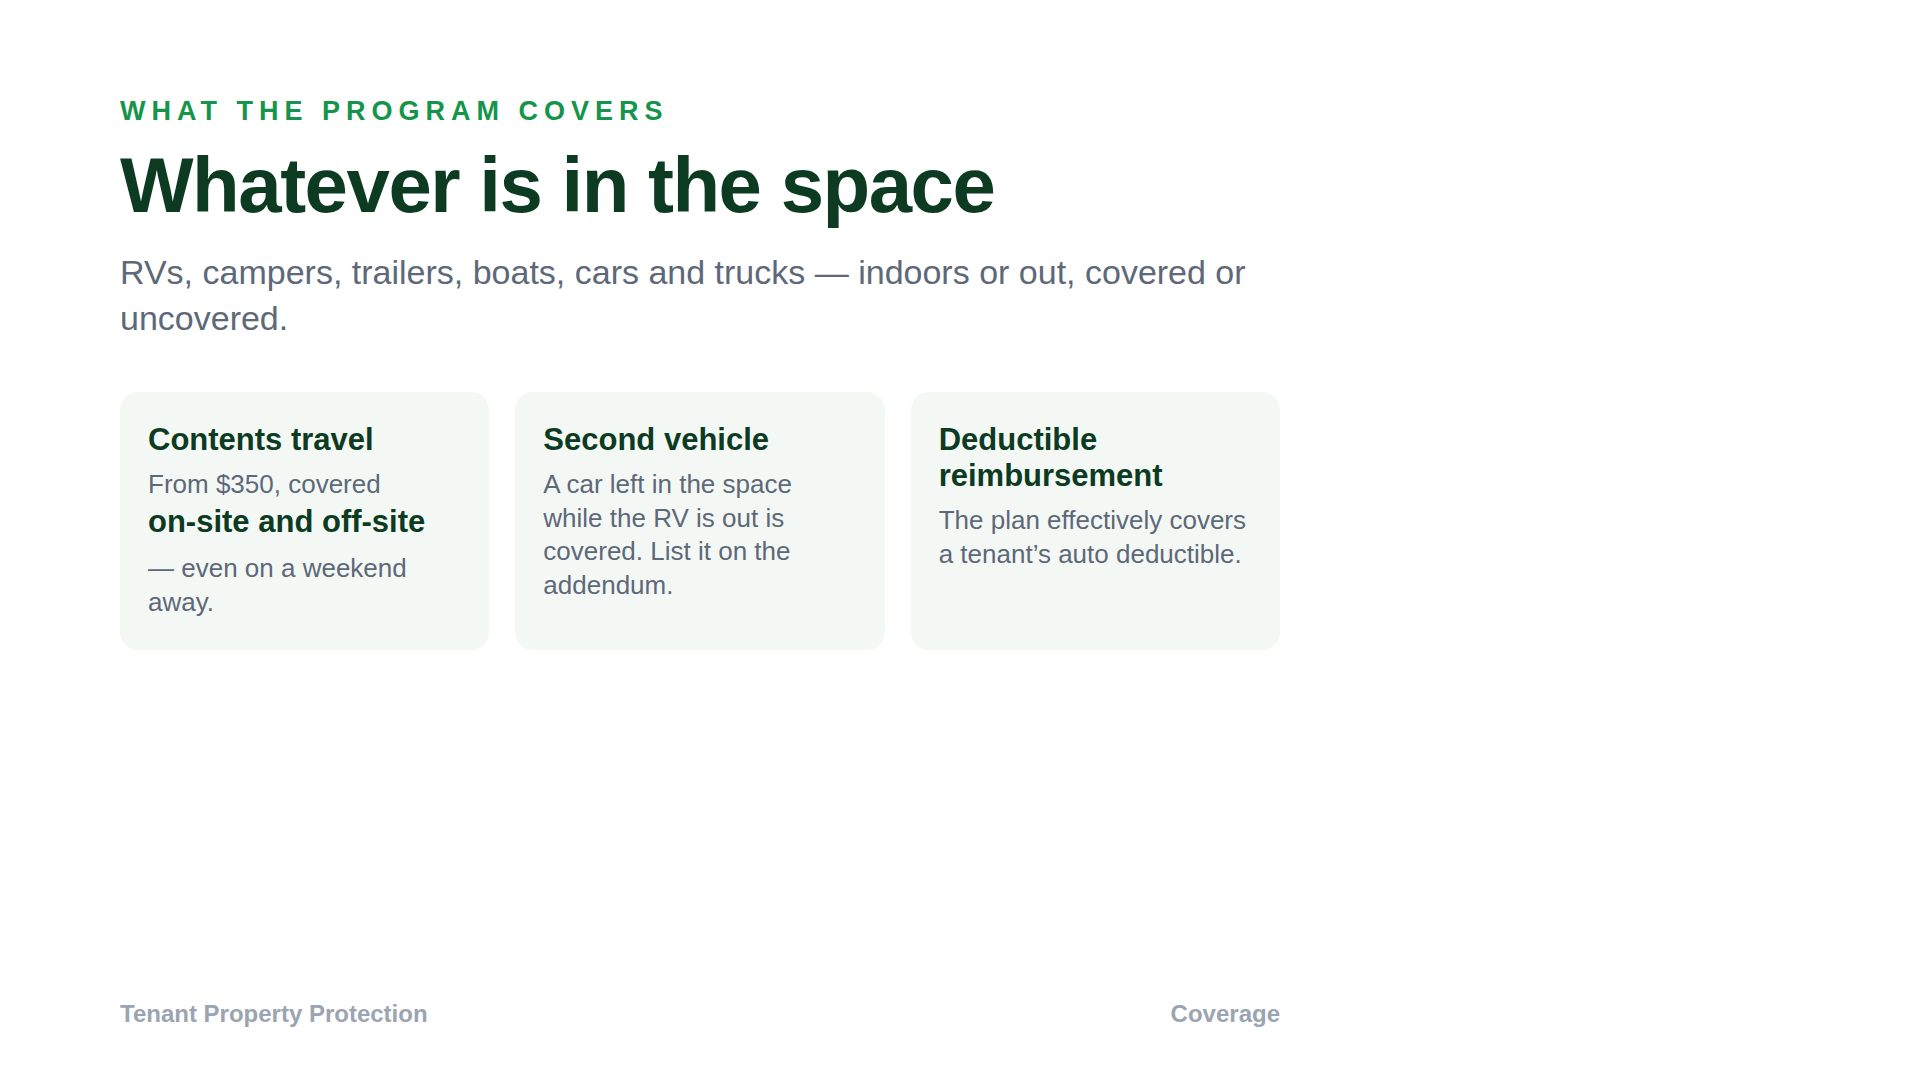
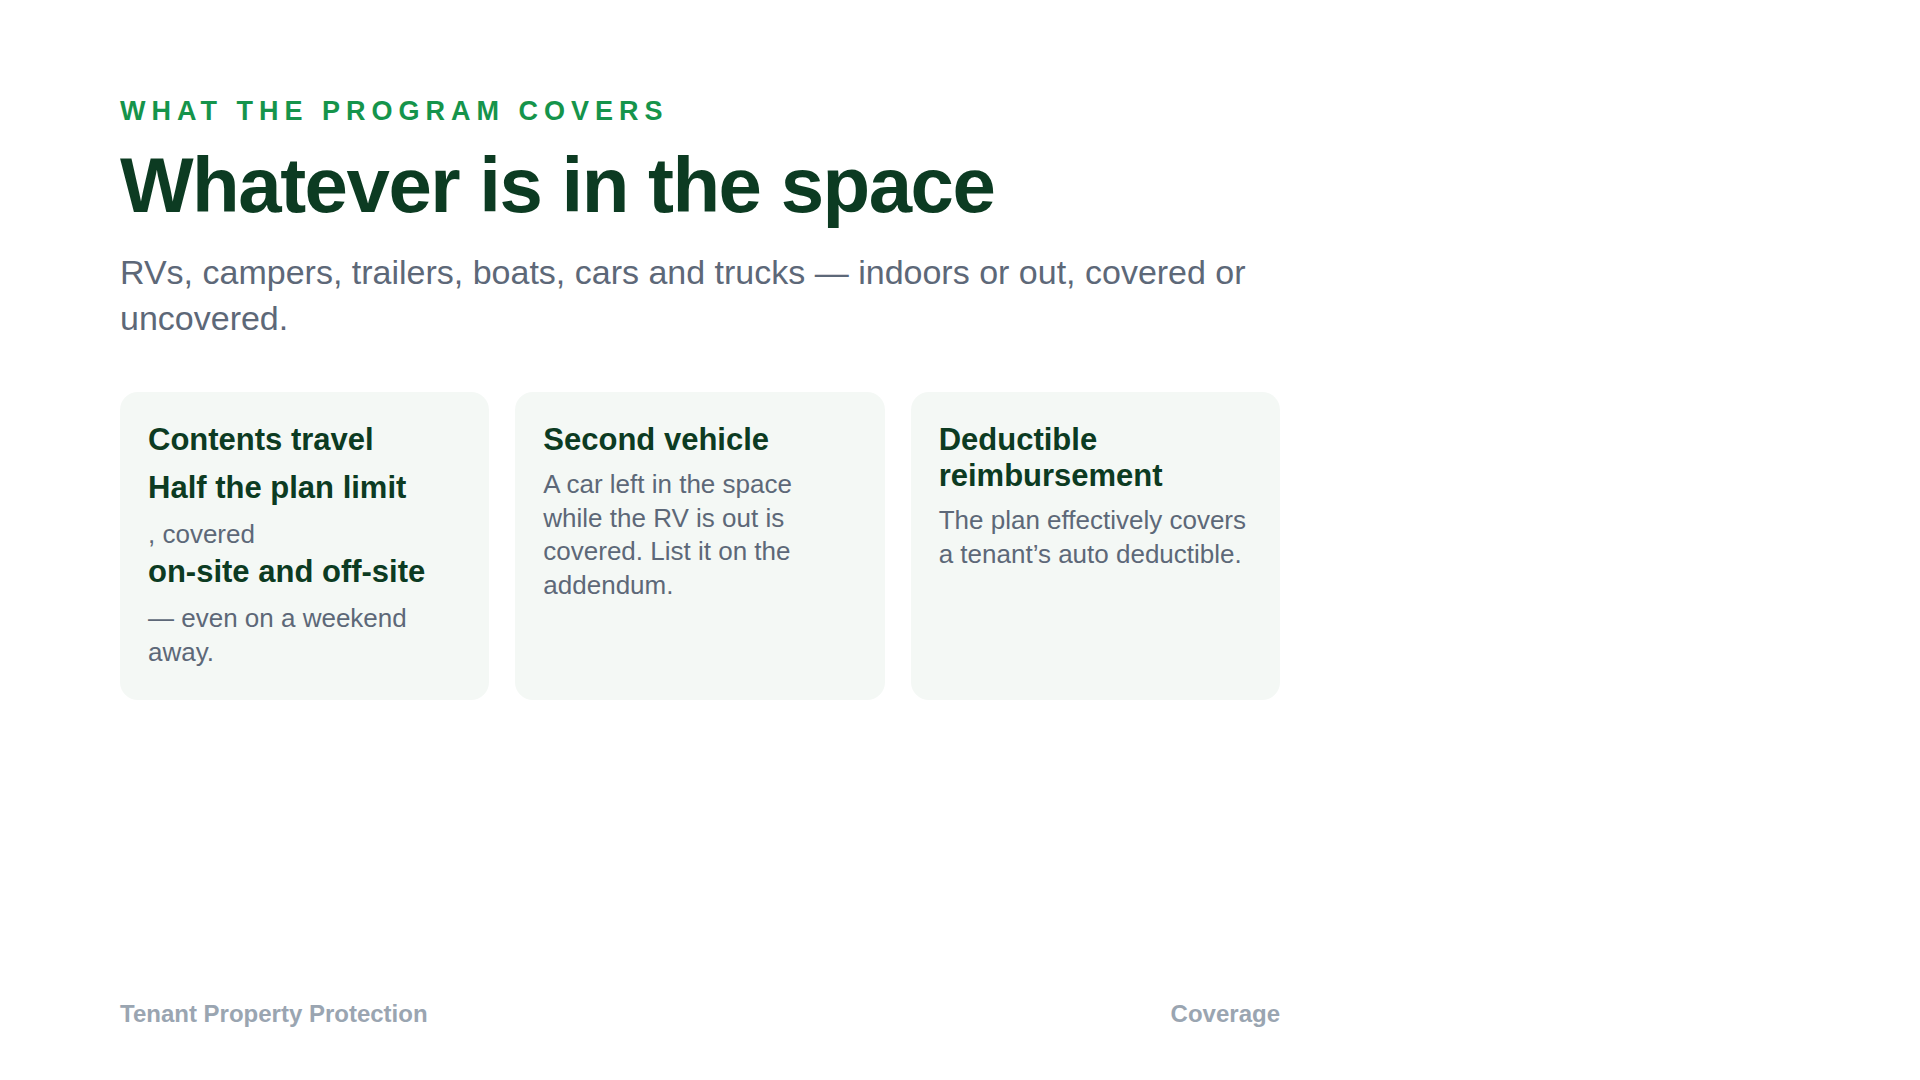
Correct three stale RV rates on the slides
The pricing table moved to the addendum's numbers but three other slides
still showed the old ones: $13 a month on the presenting slide, and
contents "from $350" twice. She now says twelve dollars and half the
plan limit, so the slides said one thing while she said another.

Claude-Session: https://claude.ai/code/session_01SVBeaJqqY1w1riJ9JWxQJ1

Changed region(s): [[0.0625, 0.4278, 0.2188, 0.6111]]

diff --git a/tools/slides/gen_rv.py b/tools/slides/gen_rv.py
@@ -70,7 +70,7 @@ add('03-covers', """<div class='kick'>What the program covers</div>
 <h1>Whatever is in the space</h1>
 <div class='lede'>RVs, campers, trailers, boats, cars and trucks &mdash; indoors or out, covered or uncovered.</div>
 <div class='grid'>
- <div class='tile'><b>Contents travel</b><span>From $350, covered <b>on-site and off-site</b> &mdash; even on a weekend away.</span></div>
+ <div class='tile'><b>Contents travel</b><span><b>Half the plan limit</b>, covered <b>on-site and off-site</b> &mdash; even on a weekend away.</span></div>
  <div class='tile'><b>Second vehicle</b><span>A car left in the space while the RV is out is covered. List it on the addendum.</span></div>
  <div class='tile'><b>Deductible reimbursement</b><span>The plan effectively covers a tenant&rsquo;s auto deductible.</span></div>
 </div>""",
@@ -96,7 +96,7 @@ add('05-present', """<div class='kick'>Lead with these</div>
    <div class='d'>&ldquo;Would you like a protection plan?&rdquo; invites a no. This moves the conversation forward.</div></div></div>
  <div class='row'><div class='ic'>2</div><div><div class='t'>Look at what they are actually parking</div>
    <div class='d'>A fishing boat and a forty-foot motorhome are two very different conversations.</div></div></div>
- <div class='row'><div class='ic'>3</div><div><div class='t'>$13 a month vs a $1,000 deductible</div>
+ <div class='row'><div class='ic'>3</div><div><div class='t'>$12 a month vs a $1,000 deductible</div>
    <div class='d'>The plan effectively pays their auto deductible for them. That is the whole pitch.</div></div></div>
 </div>""",
 "Presenting")
@@ -109,7 +109,7 @@ add('06-covered', """<div class='kick'>Know this cold</div>
  <div class='tile'><b>Burglary damage</b><span>Police report required</span></div>
  <div class='tile'><b>Vandalism</b></div>
  <div class='tile'><b>Building collapse</b></div>
- <div class='tile'><b>Contents theft</b><span>On-site and off-site, from $350</span></div>
+ <div class='tile'><b>Contents theft</b><span>On-site and off-site, half the plan limit</span></div>
  <div class='tile'><b>Stolen attached parts</b><span>The part itself, up to the plan sublimit &mdash; not the labor to install it</span></div>
  <div class='tile'><b>Deductible reimbursement</b><span>Covers the tenant&rsquo;s auto deductible</span></div>
 </div>""",
